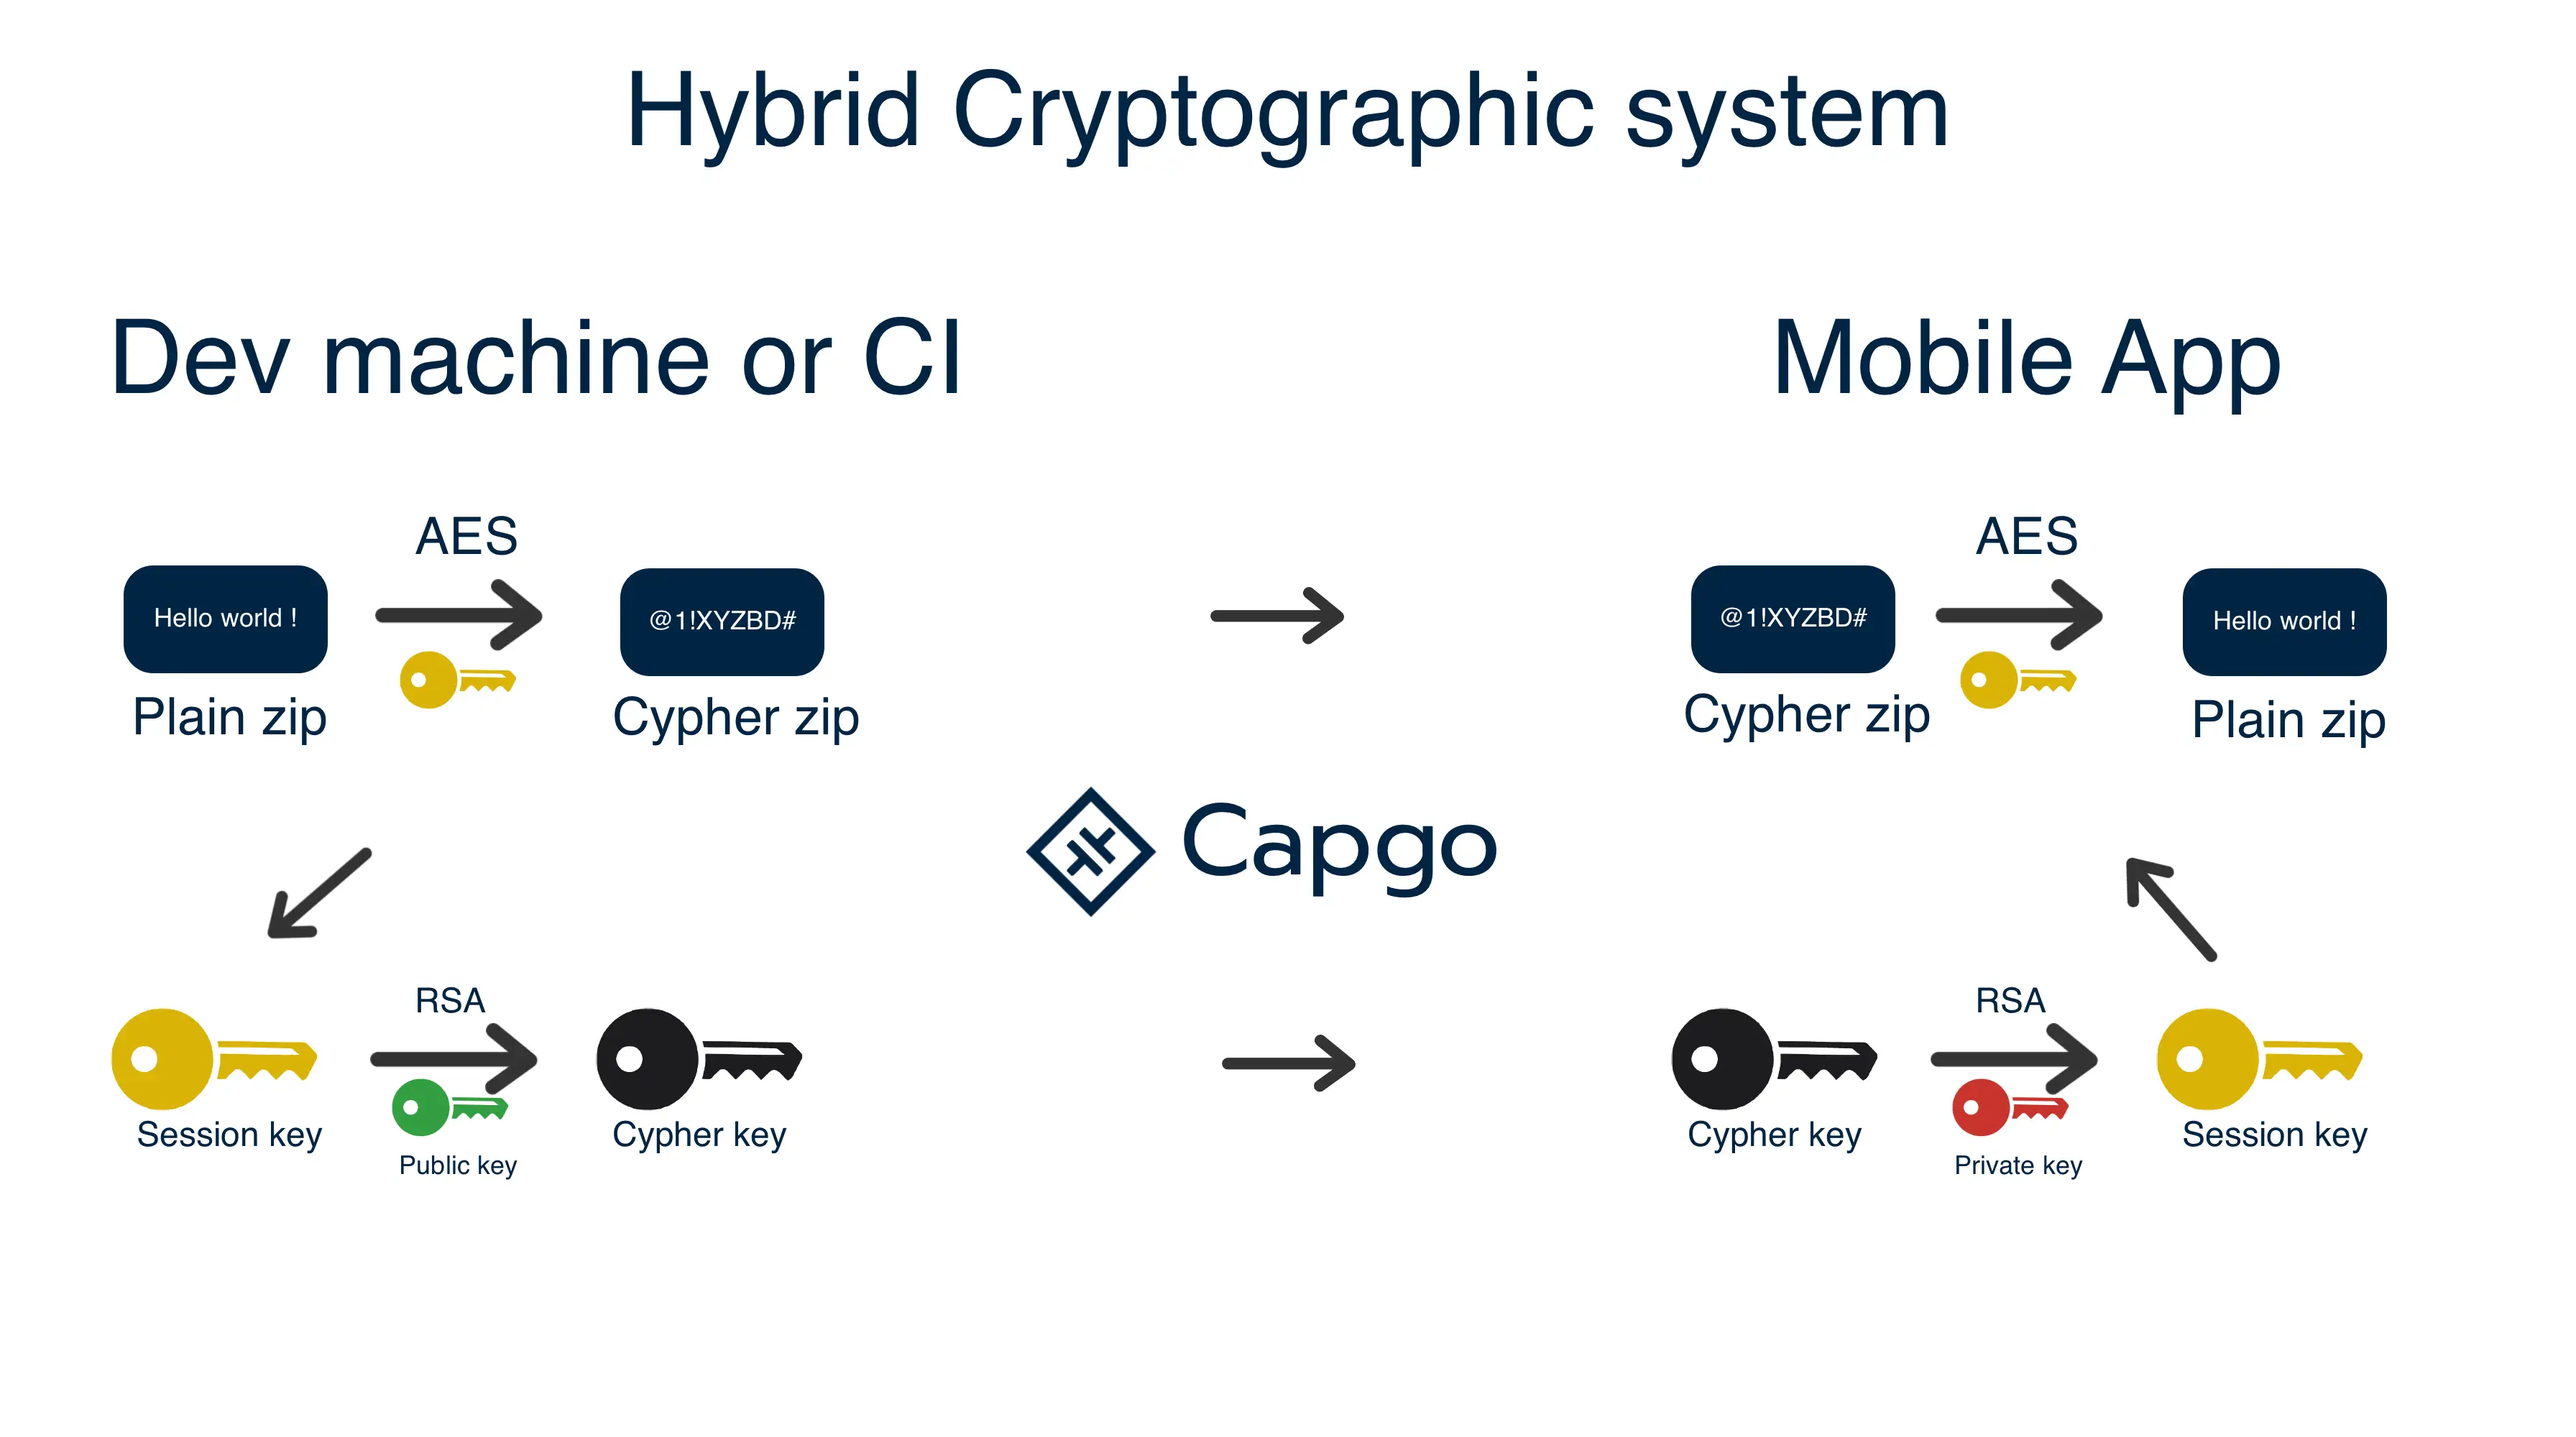
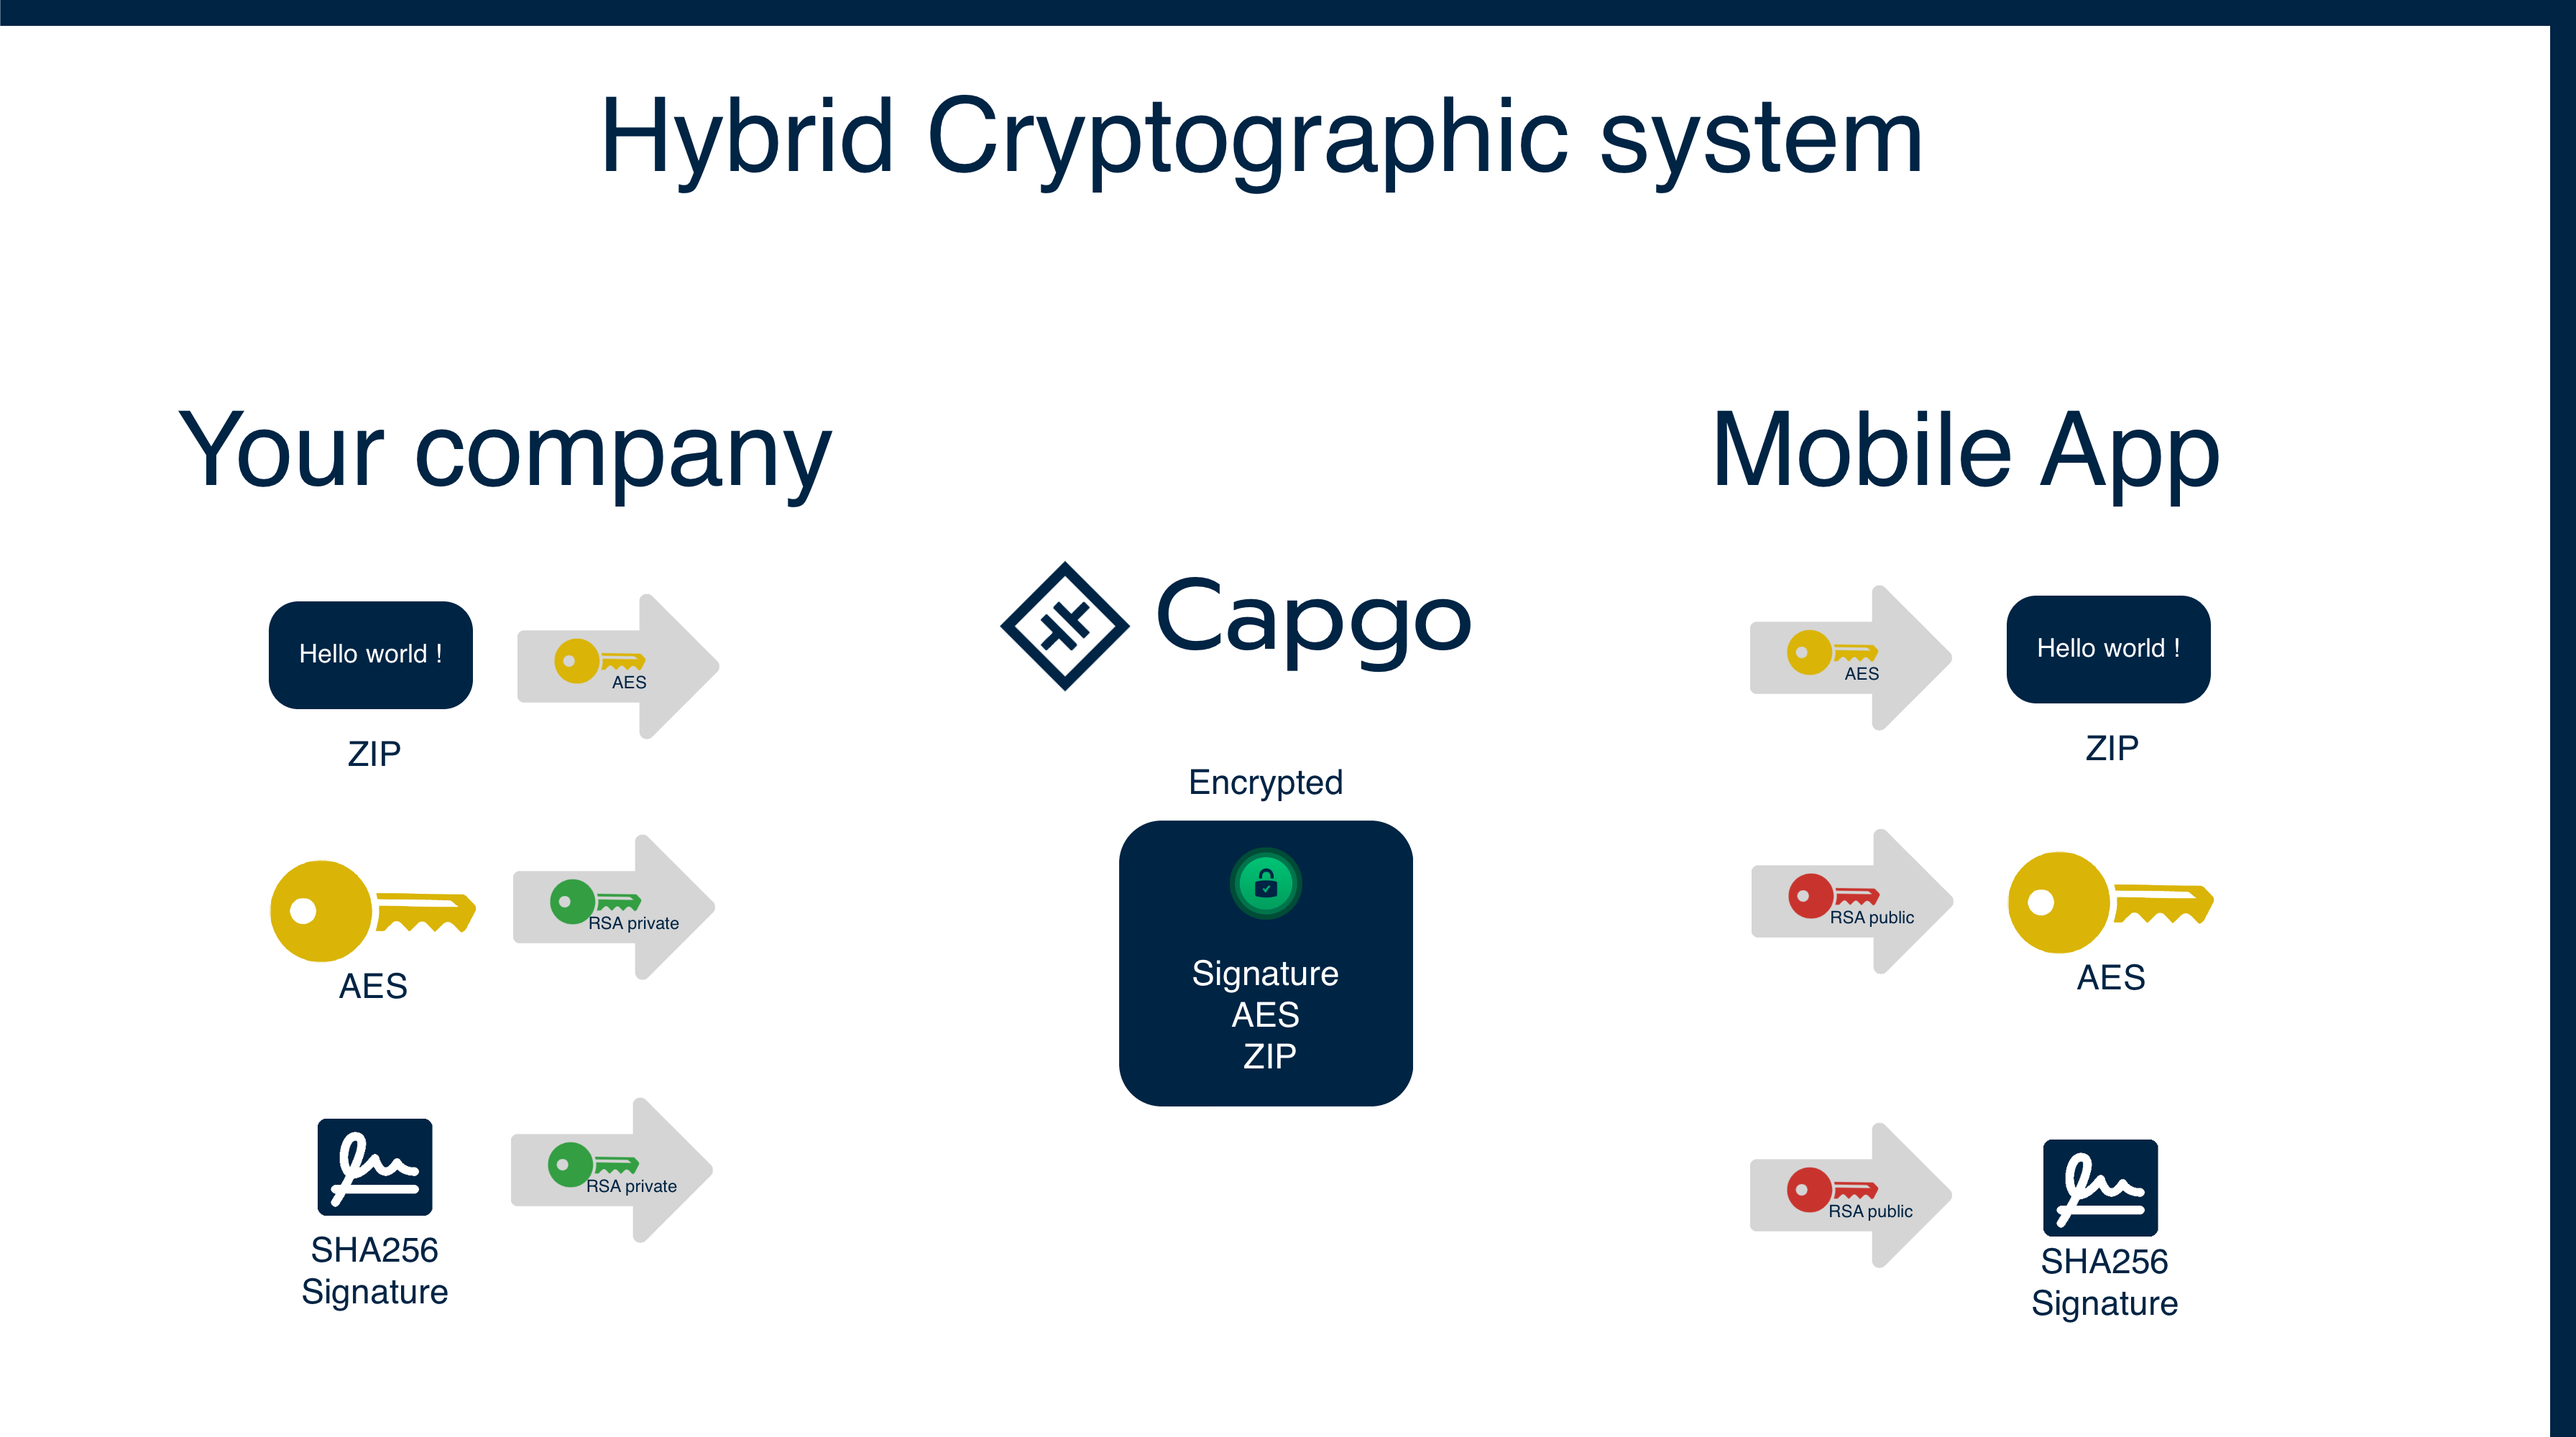
doc:  better explain encryption

diff --git a/src/content/docs/docs/cli/migrations/encryption.md b/src/content/docs/docs/cli/migrations/encryption.md
@@ -7,6 +7,8 @@ sidebar:
 
 This documentation will explain how to encrypt your data with the new encryption system and remove the old one.
 
+Learn more about the new encryption system in the [blog post](/blog/introducing-end-to-end-security-to-capacitor-updater-with-code-signing).
+
 First create a new key pair with the following command:
 
 ```bash
